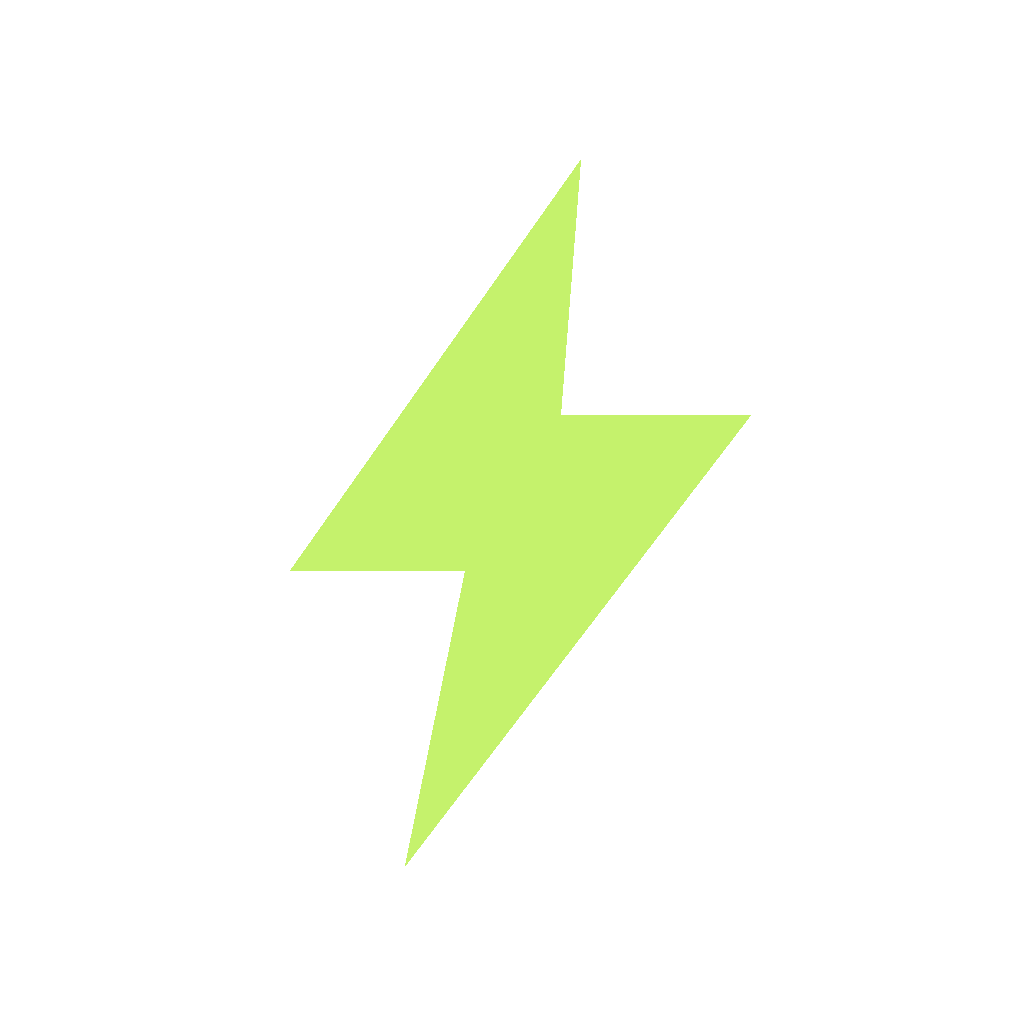
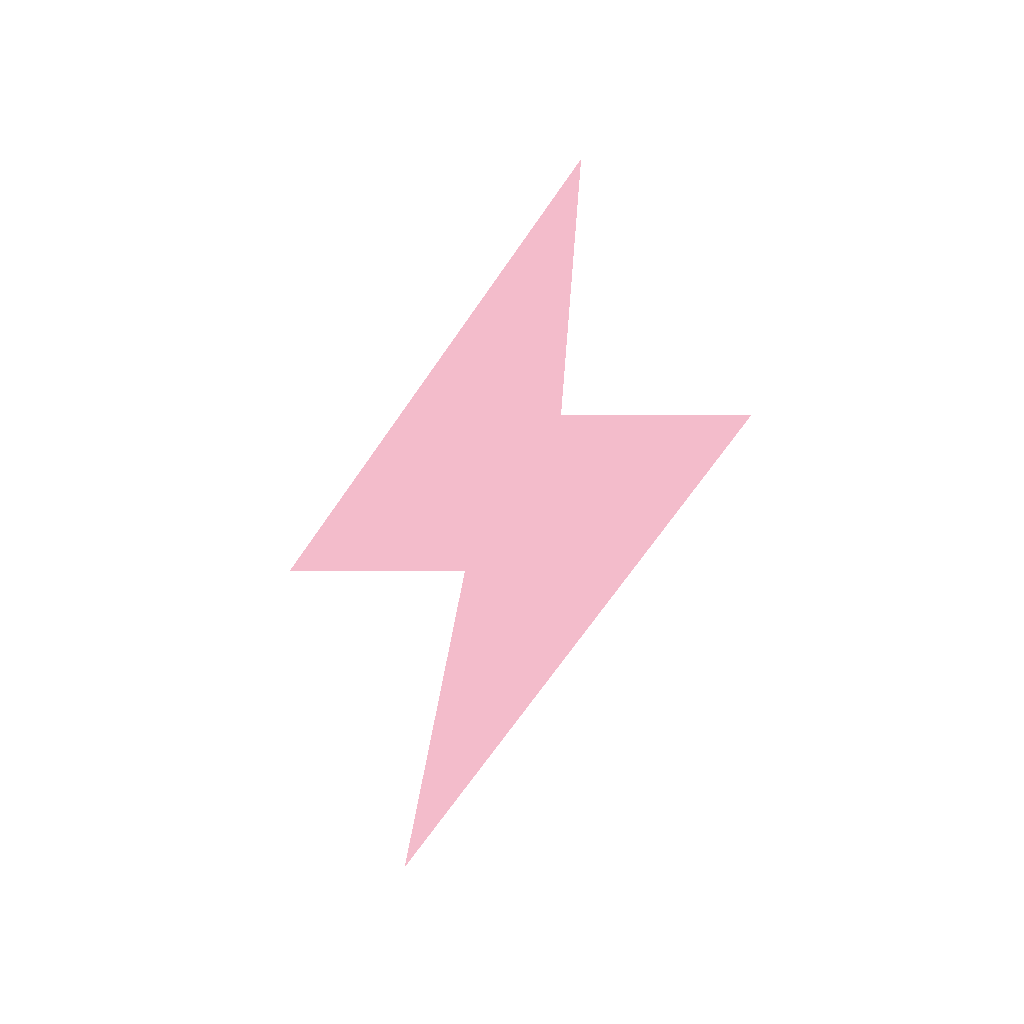
Apply burgundy palette throughout mobile app

Changed region(s): [[0.2812, 0.1562, 0.75, 0.8438]]

diff --git a/App.tsx b/App.tsx
@@ -30,14 +30,14 @@ function SideMenu(props: DrawerContentComponentProps) {
       contentContainerStyle={{ flexGrow: 1, paddingTop: 45 }}
     >
       <View style={{ padding: 22, marginBottom: 25 }}>
-        <Text style={{ fontSize: 28, fontWeight: "900", color: colors.lime }}>
+        <Text style={{ fontSize: 28, fontWeight: "900", color: colors.accent }}>
           ϟ RELÁMPAGOS
         </Text>
         <Text
           style={{
             fontSize: 10,
             letterSpacing: 3,
-            color: "#A1B29E",
+            color: colors.onDark,
             marginTop: 8,
           }}
         >
@@ -48,7 +48,7 @@ function SideMenu(props: DrawerContentComponentProps) {
         style={{
           fontSize: 10,
           letterSpacing: 2,
-          color: "#85977E",
+          color: colors.onDarkMuted,
           paddingHorizontal: 25,
           marginBottom: 18,
         }}
@@ -57,10 +57,10 @@ function SideMenu(props: DrawerContentComponentProps) {
       </Text>
       <DrawerItemList {...props} />
       <View style={{ marginTop: "auto", padding: 25, gap: 8 }}>
-        <Text style={{ color: colors.lime, fontSize: 12 }}>
+        <Text style={{ color: colors.accent, fontSize: 12 }}>
           ● Panel del organizador
         </Text>
-        <Text style={{ color: "#8A9D85", fontSize: 11, lineHeight: 17 }}>
+        <Text style={{ color: colors.onDarkMuted, fontSize: 11, lineHeight: 17 }}>
           Versión inicial · datos locales{`\n`}Nombre provisional
         </Text>
       </View>
@@ -89,9 +89,9 @@ export default function App() {
               screenOptions={{
                 drawerType: width >= 900 ? "permanent" : "front",
                 drawerStyle: { width: 280, backgroundColor: colors.dark },
-                drawerActiveBackgroundColor: "#2B3E27",
-                drawerActiveTintColor: colors.lime,
-                drawerInactiveTintColor: "#BAC8B4",
+                drawerActiveBackgroundColor: colors.selected,
+                drawerActiveTintColor: colors.accent,
+                drawerInactiveTintColor: colors.onDark,
                 drawerLabelStyle: { fontSize: 14, fontWeight: "600" },
                 drawerItemStyle: { borderRadius: 10, marginHorizontal: 13 },
                 headerStyle: { backgroundColor: colors.bg },

diff --git a/src/screens/Screens.tsx b/src/screens/Screens.tsx
@@ -66,7 +66,7 @@ export function Home() {
           },
         ]}
       >
-        <Text style={[s.eyebrow, { color: colors.lime }]}>
+        <Text style={[s.eyebrow, { color: colors.accent }]}>
           UNA NOCHE · TODO EN JUEGO
         </Text>
         <Text
@@ -79,7 +79,7 @@ export function Home() {
         >
           {night ? night.name : "POCO TIEMPO.\nMUCHO FÚTBOL."}
         </Text>
-        <Text style={{ fontSize: 14, lineHeight: 23, color: "#A8BAA6" }}>
+        <Text style={{ fontSize: 14, lineHeight: 23, color: colors.onDark }}>
           {night
             ? `${showDate(night.date)} · ${night.time} h · Madrid`
             : "Prepara los relámpagos de tu comunidad de Clubes Pro."}
@@ -139,7 +139,7 @@ export function Home() {
             { flexDirection: "row", gap: 15, alignItems: "center" },
           ]}
         >
-          <Text style={{ color: "#678548", fontSize: 22, fontWeight: "800" }}>
+          <Text style={{ color: colors.primary, fontSize: 22, fontWeight: "800" }}>
             {num}
           </Text>
           <View style={{ flex: 1, gap: 5 }}>
@@ -343,12 +343,12 @@ export function Clubs() {
               <View style={s.row}>
                 <View
                   style={{
-                    backgroundColor: "#EAF0E0",
+                    backgroundColor: colors.soft,
                     borderRadius: 10,
                     padding: 13,
                   }}
                 >
-                  <Text style={{ fontWeight: "800", color: "#56733E" }}>
+                  <Text style={{ fontWeight: "800", color: colors.softInk }}>
                     {c.name.slice(0, 2).toUpperCase()}
                   </Text>
                 </View>

diff --git a/src/theme.ts b/src/theme.ts
@@ -1,13 +1,20 @@
 import { StyleSheet } from "react-native";
 export const colors = {
-  bg: "#F4F5EF",
-  ink: "#17291E",
-  dark: "#14231B",
-  lime: "#C5F26C",
-  muted: "#6D7C6C",
-  line: "#DFE6D8",
+  bg: "#FAF6F4",
+  ink: "#341D26",
+  dark: "#4A1025",
+  primary: "#7A1F3D",
+  accent: "#F3BCCB",
+  muted: "#806972",
+  line: "#E8D7DB",
   white: "#FFFFFF",
-  danger: "#A44031",
+  danger: "#A52C42",
+  soft: "#F4E6E9",
+  softInk: "#6B213B",
+  onDark: "#D8B7C1",
+  onDarkMuted: "#CBA3AF",
+  selected: "#71283F",
+  placeholder: "#8B707A",
 };
 export const styles = StyleSheet.create({
   page: { flex: 1, backgroundColor: colors.bg },
@@ -51,7 +58,7 @@ export const styles = StyleSheet.create({
   wrap: { flexDirection: "row", flexWrap: "wrap", gap: 8 },
   badge: {
     alignSelf: "flex-start",
-    backgroundColor: "#EAF3DC",
+    backgroundColor: colors.soft,
     paddingHorizontal: 10,
     paddingVertical: 6,
     borderRadius: 6,
@@ -59,11 +66,11 @@ export const styles = StyleSheet.create({
   badgeText: {
     fontSize: 10,
     fontWeight: "800",
-    color: "#4B672A",
+    color: colors.softInk,
     letterSpacing: 0.5,
   },
-  note: { backgroundColor: "#E9EFDF", padding: 14, borderRadius: 10 },
-  noteText: { fontSize: 12, lineHeight: 19, color: "#526148" },
+  note: { backgroundColor: colors.soft, padding: 14, borderRadius: 10 },
+  noteText: { fontSize: 12, lineHeight: 19, color: colors.softInk },
   label: {
     fontSize: 13,
     fontWeight: "600",

diff --git a/src/components/UI.tsx b/src/components/UI.tsx
@@ -40,12 +40,12 @@ export function Button({
         borderWidth: 1,
         borderColor: secondary ? colors.line : "transparent",
         backgroundColor: accent
-          ? colors.lime
+          ? colors.accent
           : secondary
             ? "transparent"
             : danger
               ? colors.danger
-              : colors.dark,
+              : colors.primary,
         justifyContent: "center",
         opacity: disabled ? 0.4 : pressed ? 0.7 : 1,
       })}
@@ -101,7 +101,7 @@ export function Field({
         value={value}
         onChangeText={onChangeText}
         placeholder={placeholder}
-        placeholderTextColor="#8B9786"
+        placeholderTextColor={colors.placeholder}
         keyboardType={numeric ? "number-pad" : "default"}
         maxLength={maxLength}
         autoCapitalize={numeric ? "none" : "sentences"}

diff --git a/README.md b/README.md
@@ -19,6 +19,10 @@ npx expo export --platform all
 
 `eas.json` prepara perfiles de APK de pruebas, simulador iOS y producción. Antes de compilar hay que vincular un proyecto EAS propio, decidir los identificadores de paquete/bundle y configurar la firma. No se han creado recursos de Apple/Google ni se han reutilizado credenciales de ConvoSquad.
 
+## Identidad visual
+
+Paleta vinotinto: borgoña profundo `#4A1025`, principal `#7A1F3D`, rosa suave `#F3BCCB` y marfil `#FAF6F4`. Colores semánticos centralizados en `src/theme.ts`; se aplican al menú, botones, tarjetas, formularios e iconos de la app.
+
 ## Alcance de la versión 0.1
 
 - Noches independientes, creación y selección.
